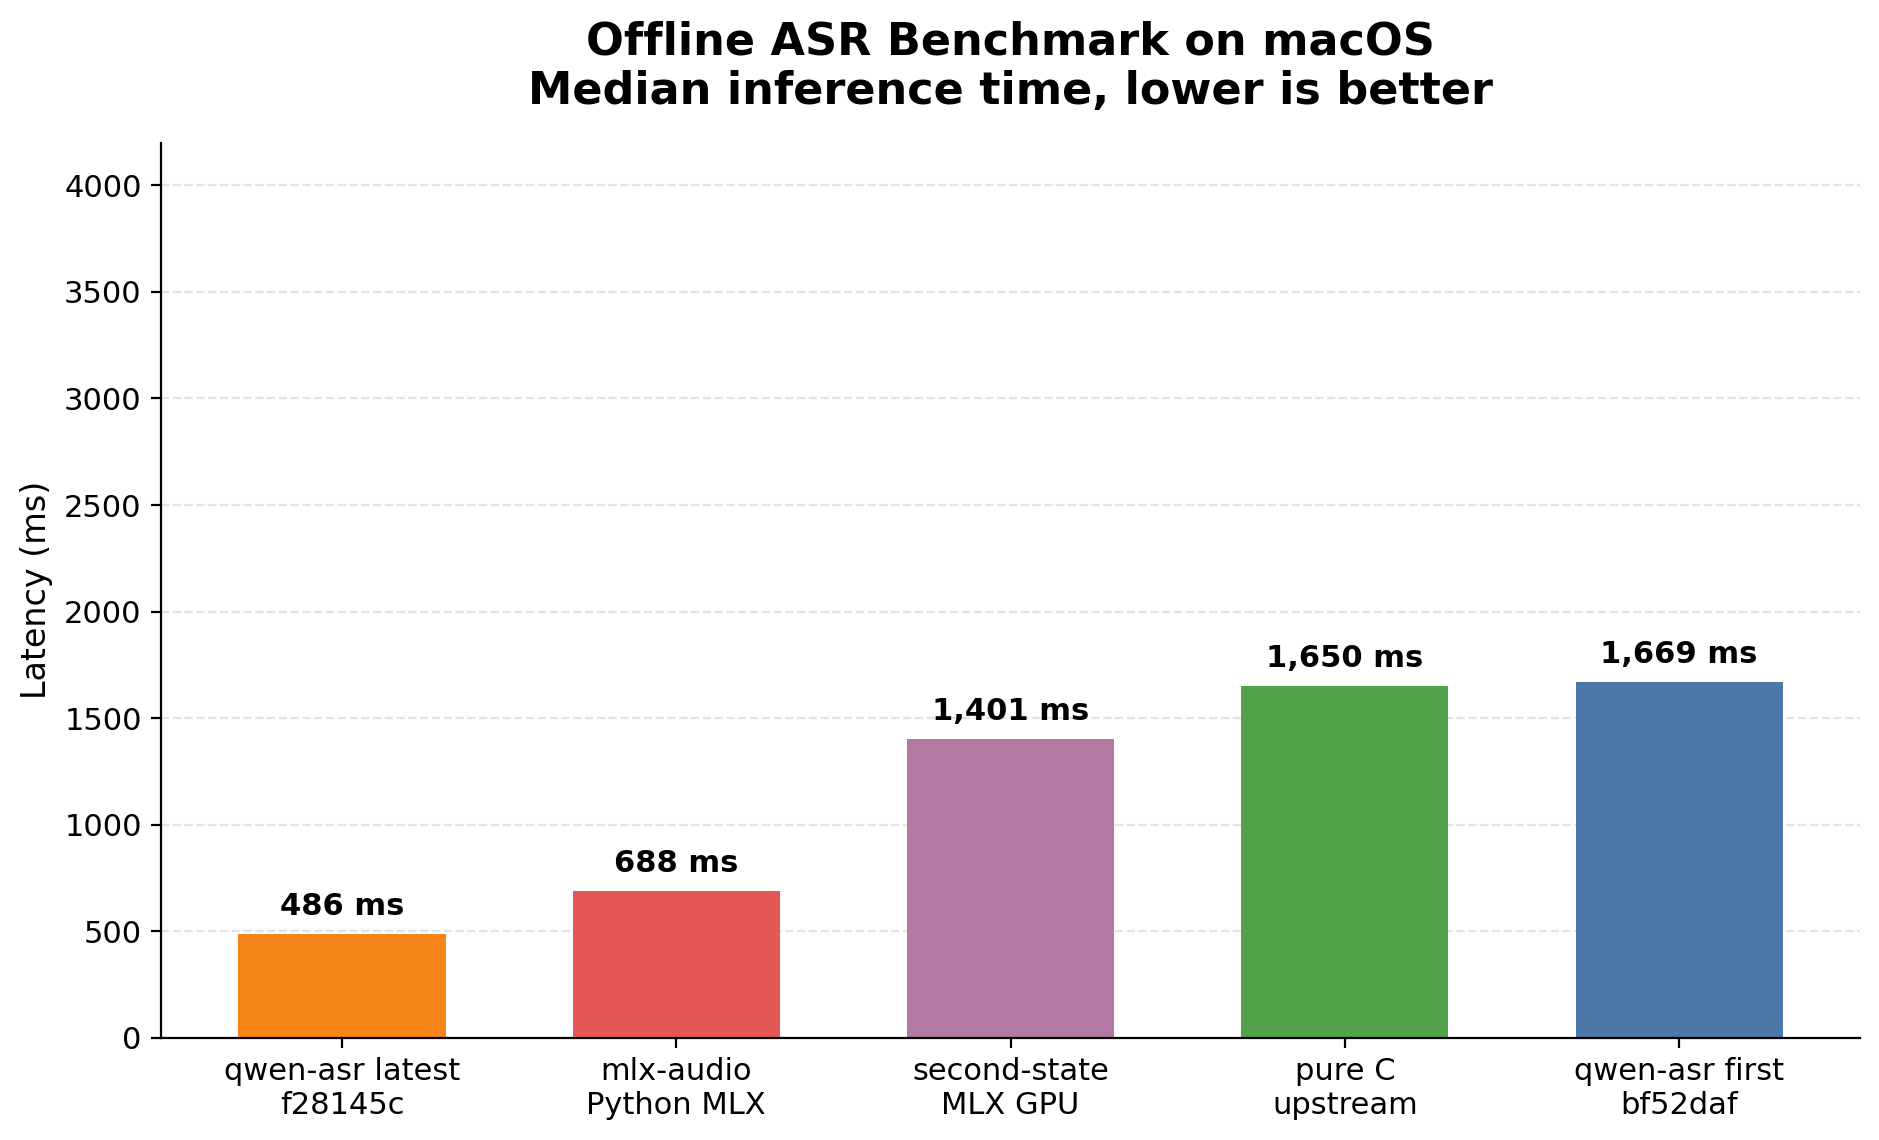
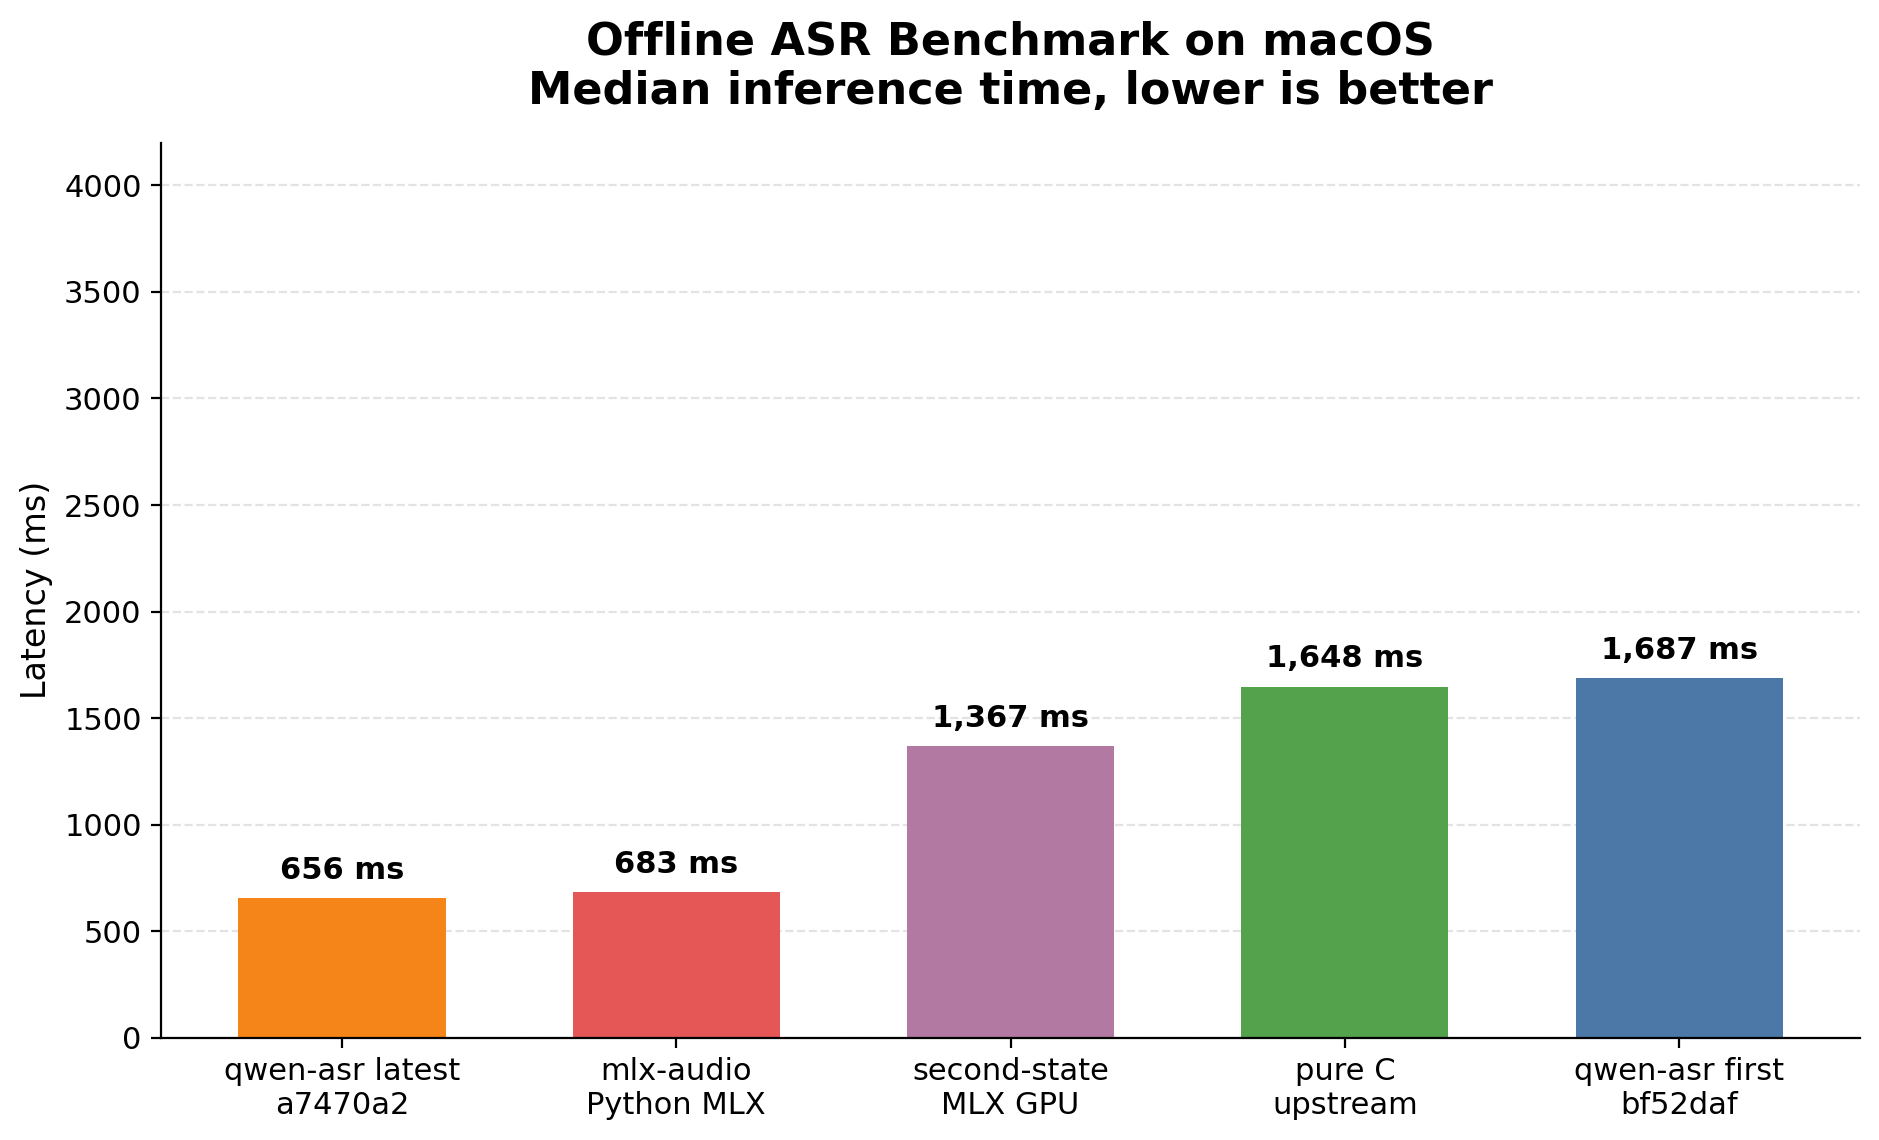
docs: refresh README/comparison benchmark numbers and charts from a7470a2 cross-implementation run

diff --git a/docs/benchmarks/comparison.md b/docs/benchmarks/comparison.md
@@ -32,7 +32,7 @@ Output: `bench/compare-results/<timestamp>/` with `report.md`, `summary.json`, c
 ## Current qwen-asr HEAD
 
 > Generated on: 2026-07-02
-> Commit: `f28145c`
+> Commit: `a7470a2`
 > Runs: 10
 
 | Mode | Median inference ms | Mean ms | Best ms | Realtime factor |
@@ -57,7 +57,7 @@ See [`results.md`](./results.md) for the full speed-benchmark page.
 
 ## Latest Cross-Implementation Results
 
-> Generated on: 2026-07-02 from `bench/compare-results/20260702T053724Z/`
+> Generated on: 2026-07-02 from `bench/compare-results/20260702T054646Z/`
 > Runs per target: 10
 > Hardware: Apple M5 Pro, 15 cores, 48 GB RAM, macOS 26.4
 > Versions: upstream C `main`, second-state `v0.2.0` (`0226270`), mlx-audio `v0.4.4`
@@ -65,23 +65,23 @@ See [`results.md`](./results.md) for the full speed-benchmark page.
 
 | Implementation | Commit / Version | Median inference ms | Mean ms | Best ms | RTF |
 |---|---:|---:|---:|---:|---:|
-| qwen-asr (latest full comparison) | `f28145c` | 486 | 486 | 477 | 58.02× |
-| mlx-audio Python MLX | `0.4.4` | 688 | 892 | 680 | 40.92× |
-| second-state MLX GPU | `0226270` (v0.2.0) | 1,401 | 1,530 | 1,388 | 20.10× |
-| pure C upstream | `b00b789` | 1,650 | 1,656 | 1,639 | 17.06× |
-| qwen-asr (first) | `bf52daf` | 1,669 | 1,667 | 1,644 | 16.90× |
+| qwen-asr (latest full comparison) | `a7470a2` | 656 | 657 | 640 | 42.99× |
+| mlx-audio Python MLX | `0.4.4` | 683 | 714 | 675 | 41.23× |
+| second-state MLX GPU | `0226270` (v0.2.0) | 1,367 | 1,386 | 1,358 | 20.59× |
+| pure C upstream | `b00b789` | 1,648 | 1,654 | 1,632 | 17.09× |
+| qwen-asr (first) | `bf52daf` | 1,687 | 1,693 | 1,631 | 16.72× |
 
-> **Note:** the cross-implementation run builds a clean worktree of `f28145c`, so the qwen-asr latest row here still reflects the original `f28145c` binary (including the `LONG_AUDIO_FAST` 6-token cap). The current dedicated benchmark on the working tree — which has the token cap removed plus the B9 argmax-overlap fix — is 576 ms offline / 48.92× RTF. The two qwen-asr rows are therefore not directly comparable.
+> **Note:** the cross-implementation run passes `--threads 15` to every implementation, while the dedicated speed benchmark uses the binary's default (performance cores only, 5 threads on this machine). The dedicated benchmark therefore reports lower latency for qwen-asr latest (`576 ms` / `48.92×`) than the cross-implementation run (`656 ms` / `42.99×`). Both runs now use the same `a7470a2` commit.
 
 ### Wall-clock timing
 
 | Implementation | Commit / Version | Median wall-clock ms | Mean ms | Best ms | Wall-clock RTF |
 |---|---:|---:|---:|---:|---:|
-| qwen-asr (latest full comparison) | `f28145c` | 734 | 779 | 726 | 38.39× |
-| mlx-audio Python MLX | `0.4.4` | 1,732 | 2,006 | 1,707 | 16.26× |
-| second-state MLX GPU | `0226270` (v0.2.0) | 1,607 | 1,792 | 1,584 | 17.53× |
-| pure C upstream | `b00b789` | 1,922 | 1,926 | 1,907 | 14.65× |
-| qwen-asr (first) | `bf52daf` | 2,010 | 2,042 | 1,986 | 14.03× |
+| qwen-asr (latest full comparison) | `a7470a2` | 906 | 933 | 883 | 31.12× |
+| mlx-audio Python MLX | `0.4.4` | 1,717 | 1,794 | 1,697 | 16.40× |
+| second-state MLX GPU | `0226270` (v0.2.0) | 1,576 | 1,670 | 1,558 | 17.87× |
+| pure C upstream | `b00b789` | 1,912 | 1,920 | 1,901 | 14.73× |
+| qwen-asr (first) | `bf52daf` | 2,043 | 2,081 | 1,968 | 13.81× |
 
 <p float="left">
   <img src="charts/benchmark-unified-latency.png" width="48%" alt="Unified latency" />
@@ -90,10 +90,10 @@ See [`results.md`](./results.md) for the full speed-benchmark page.
 
 ### Findings
 
-- In the latest full cross-implementation run, qwen-asr `f28145c` is **3.43×** faster than the initial Rust port `bf52daf`.
-- In the latest full cross-implementation run, qwen-asr `f28145c` is **3.40×** faster than the upstream pure C implementation.
-- In the latest full cross-implementation run, qwen-asr `f28145c` is **2.88×** faster than second-state MLX GPU (v0.2.0) by inference latency.
-- In the latest full cross-implementation run, qwen-asr `f28145c` is **1.42×** faster than mlx-audio Python MLX (v0.4.4) by inference latency.
+- In the latest full cross-implementation run, qwen-asr `a7470a2` is **2.57×** faster than the initial Rust port `bf52daf`.
+- In the latest full cross-implementation run, qwen-asr `a7470a2` is **2.51×** faster than the upstream pure C implementation.
+- In the latest full cross-implementation run, qwen-asr `a7470a2` is **2.08×** faster than second-state MLX GPU (v0.2.0) by inference latency.
+- In the latest full cross-implementation run, qwen-asr `a7470a2` is **1.04×** faster than mlx-audio Python MLX (v0.4.4) by inference latency.
 
 ## Why does pure CPU Rust beat GPU baselines?
 

diff --git a/report.md b/report.md
@@ -4,7 +4,7 @@
 
 - Offline benchmark on the same input WAV and model across five implementations.
 - qwen-asr first: `bf52daf`.
-- qwen-asr latest: `f28145c`.
+- qwen-asr latest: `a7470a2`.
 - Upstream C: `antirez/qwen-asr`.
 - GPU baselines: `second-state/qwen3_asr_rs` MLX and `mlx-audio` Python MLX.
 - Implementations are benchmarked sequentially, not in parallel; each round is a standalone process invocation.
@@ -31,22 +31,22 @@
 
 | Implementation | Commit | Median inference ms | Mean ms | Best ms | RTF |
 |---|---:|---:|---:|---:|---:|
-| qwen-asr (latest) | `f28145c` | `486` | `486` | `477` | `58.02x` |
-| mlx-audio Python MLX | `0.4.4` | `688` | `892` | `680` | `40.92x` |
-| second-state MLX GPU | `0226270` | `1,401` | `1,530` | `1,388` | `20.10x` |
-| pure C upstream | `b00b789` | `1,650` | `1,656` | `1,639` | `17.06x` |
-| qwen-asr (first) | `bf52daf` | `1,669` | `1,667` | `1,644` | `16.90x` |
+| qwen-asr (latest) | `a7470a2` | `656` | `657` | `640` | `42.99x` |
+| mlx-audio Python MLX | `0.4.4` | `683` | `714` | `675` | `41.23x` |
+| second-state MLX GPU | `0226270` | `1,367` | `1,386` | `1,358` | `20.59x` |
+| pure C upstream | `b00b789` | `1,648` | `1,654` | `1,632` | `17.09x` |
+| qwen-asr (first) | `bf52daf` | `1,687` | `1,693` | `1,631` | `16.72x` |
 
 <details>
 <summary>Wall-clock timing</summary>
 
 | Implementation | Commit | Median wall-clock ms | Mean ms | Best ms | Wall-clock RTF |
 |---|---:|---:|---:|---:|---:|
-| qwen-asr (latest) | `f28145c` | `734` | `779` | `726` | `38.39x` |
-| mlx-audio Python MLX | `0.4.4` | `1,732` | `2,006` | `1,707` | `16.26x` |
-| second-state MLX GPU | `0226270` | `1,607` | `1,792` | `1,584` | `17.53x` |
-| pure C upstream | `b00b789` | `1,922` | `1,926` | `1,907` | `14.65x` |
-| qwen-asr (first) | `bf52daf` | `2,010` | `2,042` | `1,986` | `14.03x` |
+| qwen-asr (latest) | `a7470a2` | `906` | `933` | `883` | `31.12x` |
+| mlx-audio Python MLX | `0.4.4` | `1,717` | `1,794` | `1,697` | `16.40x` |
+| second-state MLX GPU | `0226270` | `1,576` | `1,670` | `1,558` | `17.87x` |
+| pure C upstream | `b00b789` | `1,912` | `1,920` | `1,901` | `14.73x` |
+| qwen-asr (first) | `bf52daf` | `2,043` | `2,081` | `1,968` | `13.81x` |
 
 </details>
 
@@ -56,8 +56,8 @@
 
 ## Findings
 
-- qwen-asr latest `f28145c` is `3.43x` the speed of qwen-asr first `bf52daf`.
-- qwen-asr latest `f28145c` is `3.40x` faster than the upstream pure C implementation.
-- qwen-asr latest `f28145c` is `2.88x` faster than second-state MLX GPU by inference latency.
-- qwen-asr latest `f28145c` is `1.42x` faster than mlx-audio Python MLX by inference latency.
+- qwen-asr latest `a7470a2` is `2.57x` the speed of qwen-asr first `bf52daf`.
+- qwen-asr latest `a7470a2` is `2.51x` faster than the upstream pure C implementation.
+- qwen-asr latest `a7470a2` is `2.08x` faster than second-state MLX GPU by inference latency.
+- qwen-asr latest `a7470a2` is `1.04x` faster than mlx-audio Python MLX by inference latency.
 
